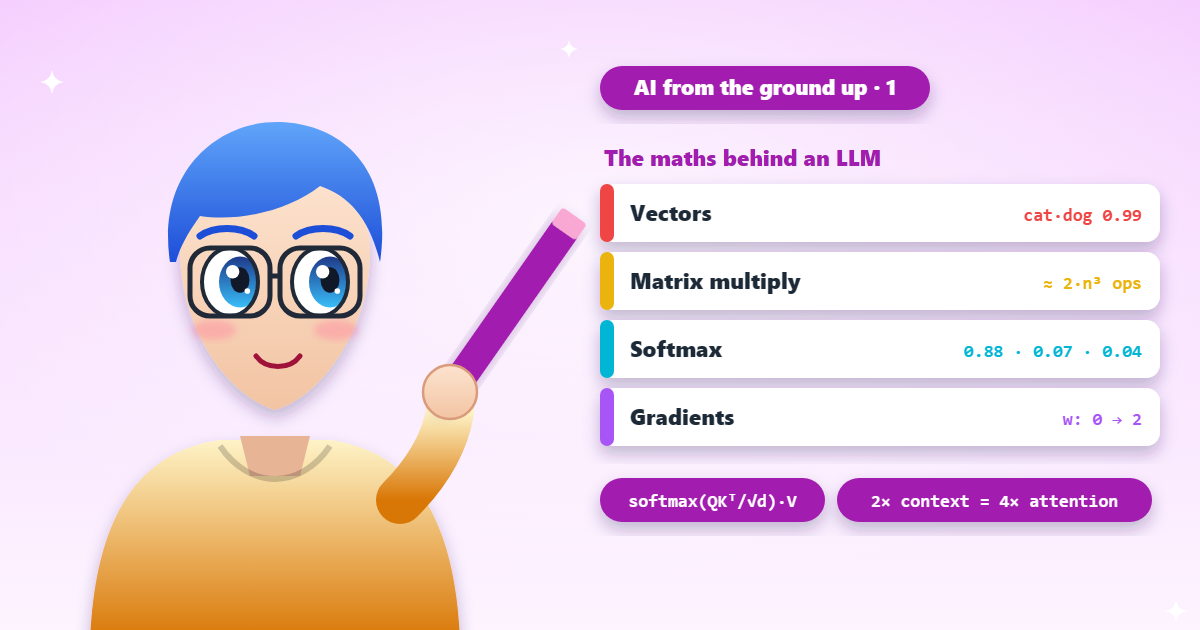
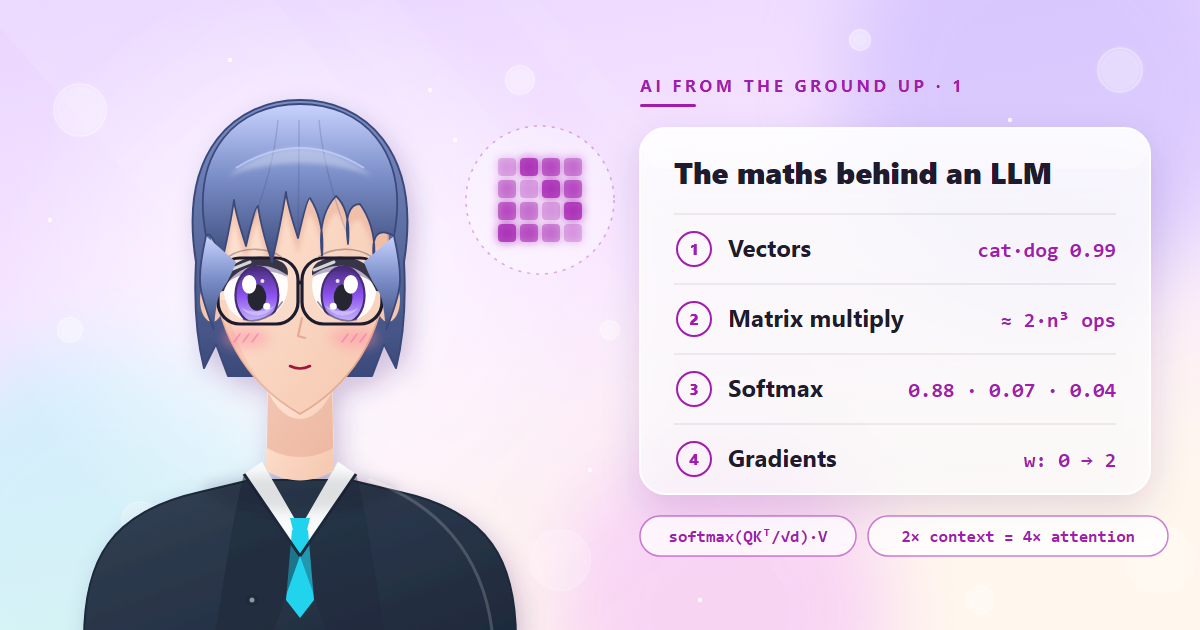
New post: AI from the ground up, part 1: the maths behind an LLM

diff --git a/content/posts/ai-ground-up-1-maths-behind-llms/index.md b/content/posts/ai-ground-up-1-maths-behind-llms/index.md
@@ -1,6 +1,6 @@
 ---
 title: "AI from the ground up, part 1: the maths behind an LLM"
-date: 2026-11-11T22:42:00-05:00
+date: 2026-11-12T17:31:00-05:00
 description: "The four pieces of maths every large language model runs on (vectors, matrix multiplication, softmax and gradients), each explained in plain words with a few lines of Python you can run, and tied back to a real model."
 featureimage: "feature.png"
 categories: ["technical"]
